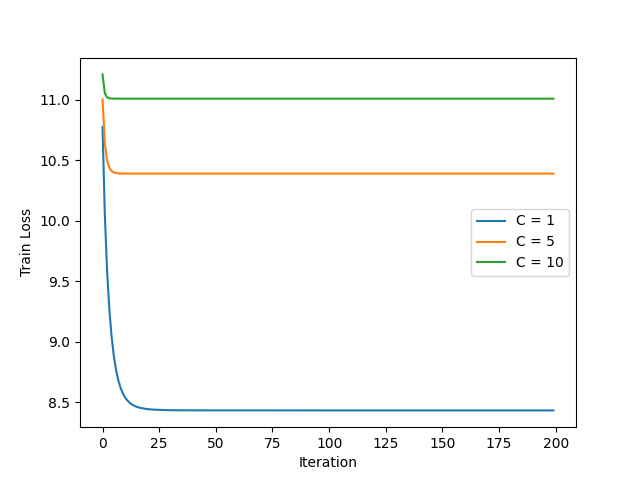
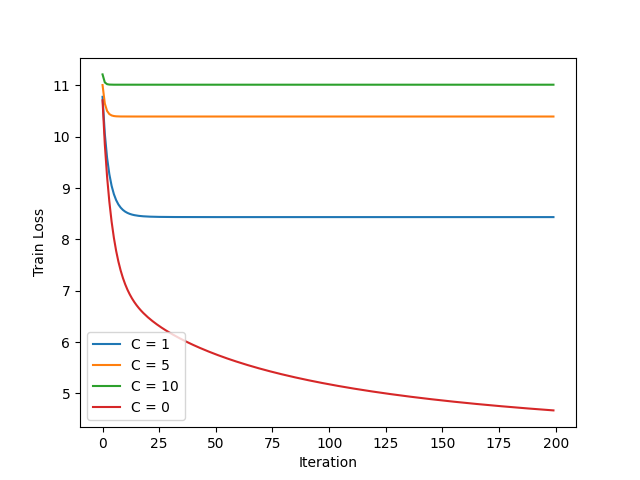
final

diff --git a/solution.py b/solution.py
@@ -51,13 +51,16 @@ class SVM:
             dot_prod = np.dot(x, self.w[:, j])
             condition = 2 - dot_prod * y[:, j] <= 0
             hinge_grad = np.where(
-                condition[:, np.newaxis], 0, (2 * dot_prod - 4 * y[:, j])[:, np.newaxis] * x)
-            total = np.sum(hinge_grad, axis=0)
+                condition[:, np.newaxis],
+                0,
+                (2 * dot_prod - 4 * y[:, j])[:, np.newaxis] * x
+            )
+            total = np.mean(hinge_grad, axis=0)
 
-            l2_grad = self.C * self.w[:, j]
-            ret[:, j] = total / x.shape[0] + l2_grad
+            ret[:, j] = total
 
-        return ret
+        l2_grad = self.C * self.w
+        return ret + l2_grad
 
     # Batcher function
 
@@ -183,8 +186,6 @@ if __name__ == "__main__":
 
     print("Fitting the model...")
 
-    train_losses_list, train_accs_list, test_losses_list, test_accs_list = [], [], [], []
-
     def fit(arg):
         pos, c = arg
         svm = SVM(eta=0.0001, C=c, niter=200, batch_size=100, verbose=False)
@@ -193,41 +194,38 @@ if __name__ == "__main__":
         )
 
     # calculate the metrics in parallel
+    c_values = [1, 5, 10, 0]
     train_losses_list, train_accs_list, test_losses_list, test_accs_list = \
-        zip(*process_map(fit, enumerate([1, 5, 10]), max_workers=3))
-
+        zip(*process_map(fit, enumerate(c_values)))
+#
     print("Plotting...")
 
-    pl.plot(train_losses_list[0], label='C = 1')
-    pl.plot(train_losses_list[1], label='C = 5')
-    pl.plot(train_losses_list[2], label='C = 10')
+    for train_losses, c in zip(train_losses_list, c_values):
+        pl.plot(train_losses, label=f'C = {c}')
     pl.xlabel("Iteration")
     pl.ylabel("Train Loss")
     pl.legend()
     pl.savefig("images/train_loss.png")
     pl.clf()
 
-    pl.plot(train_accs_list[0], label='C = 1')
-    pl.plot(train_accs_list[1], label='C = 5')
-    pl.plot(train_accs_list[2], label='C = 10')
+    for train_accs, c in zip(train_accs_list, c_values):
+        pl.plot(train_accs, label=f'C = {c}')
     pl.xlabel("Iteration")
     pl.ylabel("Train Accuracy")
     pl.legend()
     pl.savefig("images/train_acc.png")
     pl.clf()
 
-    pl.plot(test_losses_list[0], label='C = 1')
-    pl.plot(test_losses_list[1], label='C = 5')
-    pl.plot(test_losses_list[2], label='C = 10')
+    for test_losses, c in zip(test_losses_list, c_values):
+        pl.plot(test_losses, label=f'C = {c}')
     pl.xlabel("Iteration")
     pl.ylabel("Test Loss")
     pl.legend()
     pl.savefig("images/test_loss.png")
     pl.clf()
 
-    pl.plot(test_accs_list[0], label='C = 1')
-    pl.plot(test_accs_list[1], label='C = 5')
-    pl.plot(test_accs_list[2], label='C = 10')
+    for test_accs, c in zip(test_accs_list, c_values):
+        pl.plot(test_accs, label=f'C = {c}')
     pl.xlabel("Iteration")
     pl.ylabel("Test Accuracy")
     pl.legend()
